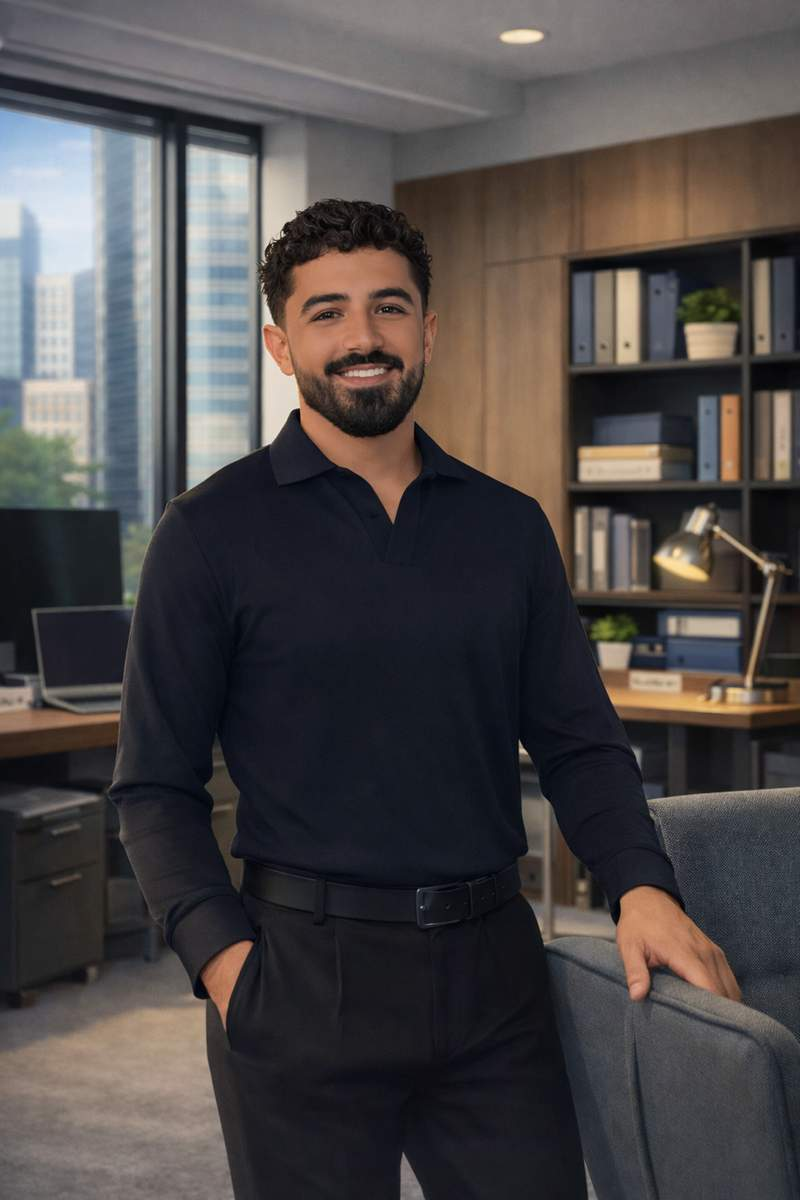
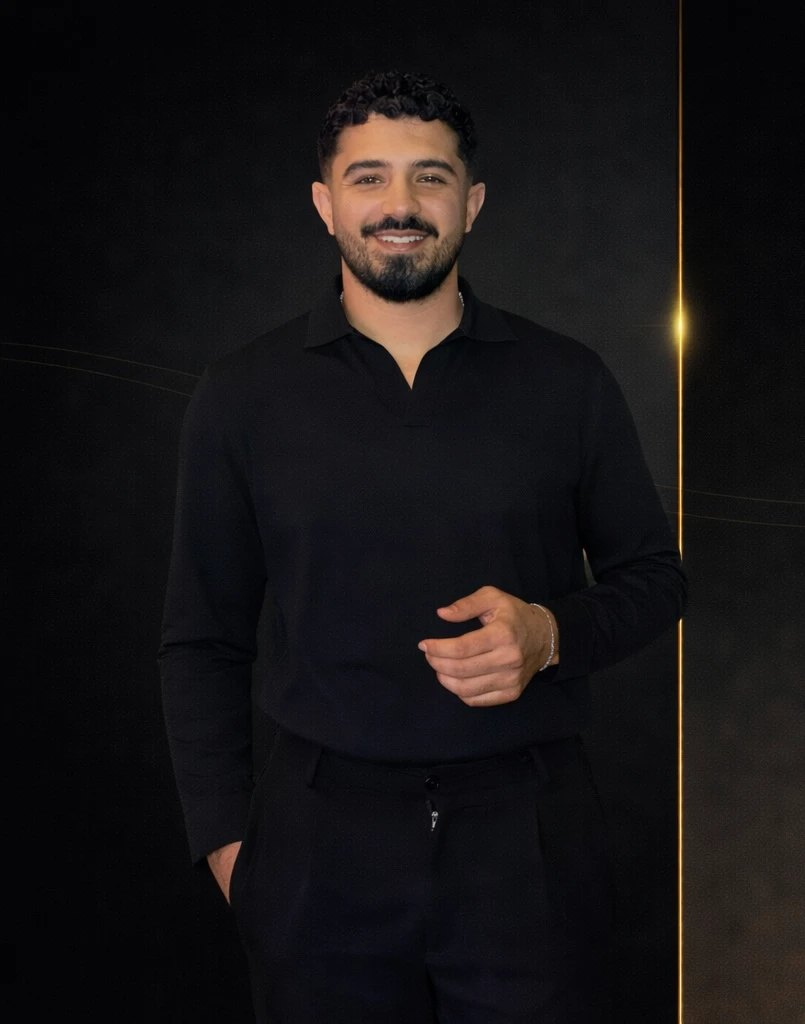
כרטיס ביקור: תמונת פרופיל חדשה + התאמת ה-hero (#3)
- card-photo-1.jpg הוחלף בצילום הסטודיו החדש (805x1024)
- הוסר הלוגו המרחף מה-hero — בתמונה החדשה הראש גבוה יותר
  והלוגו כיסה את הפנים. הוא ממילא חוזר כטקסט מיד מתחת
- filter: brightness .78 -> 1.06 — הערך הישן כויל לתמונת משרד
  מוארת והפך את הצילום הכהה לצללית
- object-position: 15% -> 8% לפי מסגור התמונה החדשה
- שכבת ההצללה מתחילה ב-58% במקום 40%, כדי לא לבלוע את פלג הגוף
- og:image dimensions עודכנו למידות בפועל
- alt של התמונה: "Liam Zur" -> תיאור בעברית
- נמחק download.webp (הקובץ שהועלה; תוכנו עבר ל-card-photo-1.jpg)

Claude-Session: https://claude.ai/code/session_01XFrKUFSQyhkRtQFFAzCPXK

diff --git a/card.html b/card.html
@@ -24,7 +24,7 @@
 <meta name="viewport" content="width=device-width, initial-scale=1.0">
 <title>Liam Zur – Mortgage Advisor</title>
 <link href="https://fonts.googleapis.com/css2?family=Cormorant+Garamond:wght@300;400;600;700&family=Montserrat:wght@300;400;500;600&display=swap" rel="stylesheet">
-<style>:root{--gold:#C9A84C;--gold-light:#E8C97A;--dark:#0A0A0A;--text:#F0EDE6;--text-muted:#9A9185;--wa:#25D366;}*{margin:0;padding:0;box-sizing:border-box;}body{background:var(--dark);min-height:100vh;display:flex;align-items:center;justify-content:center;font-family:'Montserrat',sans-serif;padding:20px;}body::before{content:'';position:fixed;inset:0;background:radial-gradient(ellipse 80% 60% at 20% 0%,rgba(201,168,76,.07) 0%,transparent 60%),radial-gradient(ellipse 60% 50% at 80% 100%,rgba(201,168,76,.05) 0%,transparent 50%);pointer-events:none;}.card{width:100%;max-width:420px;background:linear-gradient(145deg,#161616 0%,#0E0E0E 50%,#141414 100%);border:1px solid rgba(201,168,76,.2);border-radius:24px;overflow:hidden;box-shadow:0 40px 80px rgba(0,0,0,.8),0 0 60px rgba(201,168,76,.04);animation:cardIn .8s cubic-bezier(.16,1,.3,1) both;position:relative;}@keyframes cardIn{from{opacity:0;transform:translateY(30px) scale(.97)}to{opacity:1;transform:translateY(0) scale(1)}}.card::before{content:'';position:absolute;top:0;left:0;right:0;height:1px;background:linear-gradient(90deg,transparent,var(--gold),transparent);z-index:2;}.hero{position:relative;height:360px;overflow:hidden;}.hero-photo{width:100%;height:100%;object-fit:cover;object-position:center 15%;display:block;filter:brightness(.78) contrast(1.05);}.hero-overlay{position:absolute;inset:0;background:linear-gradient( to bottom,transparent 0%,transparent 40%,rgba(10,10,10,.55) 68%,rgba(10,10,10,1) 100% );}.hero-logo{position:absolute;top:16px;left:50%;transform:translateX(-50%);height:52px;opacity:.92;z-index:1;}.body{padding:0 28px 28px;}.name-block{text-align:center;margin-top:-6px;margin-bottom:6px;padding:0 4px;}.name{font-family:'Cormorant Garamond',serif;font-size:clamp(1.9rem,8vw,2.5rem);font-weight:600;color:var(--text);letter-spacing:.08em;line-height:1.1;text-transform:uppercase;white-space:nowrap;}.title{font-size:.65rem;font-weight:600;letter-spacing:.28em;color:var(--gold);text-transform:uppercase;margin-top:6px;}.divider{display:flex;align-items:center;gap:10px;margin:18px 0;}.divider::before,.divider::after{content:'';flex:1;height:1px;background:linear-gradient(90deg,transparent,rgba(201,168,76,.3));}.divider::after{background:linear-gradient(90deg,rgba(201,168,76,.3),transparent);}.bio{font-size:.78rem;color:var(--text-muted);line-height:1.7;text-align:center;margin-bottom:20px;font-weight:300;}.contacts{display:flex;flex-direction:column;gap:10px;margin-bottom:22px;}.contact-item{display:flex;align-items:center;gap:14px;padding:11px 15px;background:rgba(255,255,255,.03);border:1px solid rgba(201,168,76,.1);border-radius:10px;text-decoration:none;transition:all .25s ease;}.contact-item:hover{background:rgba(201,168,76,.07);border-color:rgba(201,168,76,.3);transform:translateX(3px);}.contact-icon{width:34px;height:34px;border-radius:8px;background:rgba(201,168,76,.1);display:flex;align-items:center;justify-content:center;flex-shrink:0;}.contact-icon svg{width:16px;height:16px;fill:none;stroke:var(--gold);stroke-width:1.8;stroke-linecap:round;stroke-linejoin:round;}.contact-label{font-size:.58rem;color:var(--text-muted);text-transform:uppercase;letter-spacing:.2em;margin-bottom:2px;}.contact-value{font-size:.82rem;color:var(--text);font-weight:400;}.actions{display:grid;grid-template-columns:1fr 1fr 1fr;gap:8px;margin-bottom:16px;}.btn{display:flex;align-items:center;justify-content:center;gap:6px;padding:11px 8px;border-radius:10px;font-size:.66rem;font-weight:600;letter-spacing:.08em;text-transform:uppercase;text-decoration:none;cursor:pointer;border:none;transition:all .25s ease;font-family:'Montserrat',sans-serif;}.btn-call{background:linear-gradient(135deg,var(--gold),var(--gold-light));color:#0A0A0A;}.btn-call:hover{transform:translateY(-1px);box-shadow:0 8px 20px rgba(201,168,76,.25);}.btn-wa{background:rgba(37,211,102,.12);border:1px solid rgba(37,211,102,.3);color:var(--wa);}.btn-wa:hover{background:rgba(37,211,102,.2);border-color:rgba(37,211,102,.6);}.btn-site{background:transparent;border:1px solid rgba(201,168,76,.3);color:var(--gold);}.btn-site:hover{background:rgba(201,168,76,.08);border-color:rgba(201,168,76,.6);}.btn svg{width:13px;height:13px;fill:none;stroke:currentColor;stroke-width:2;stroke-linecap:round;stroke-linejoin:round;flex-shrink:0;}.btn-wa svg{stroke:var(--wa);}.save-btn-wrap{display:flex;justify-content:center;margin-bottom:16px;}.save-contact-btn{background:transparent;border:none;color:var(--text-muted);font-size:.65rem;font-family:'Montserrat',sans-serif;letter-spacing:.2em;text-transform:uppercase;cursor:pointer;text-decoration:underline;text-underline-offset:3px;padding:4px;transition:color .2s;}.save-contact-btn:hover{color:var(--gold);}.footer{text-align:center;margin-top:16px;font-size:.6rem;color:rgba(154,145,133,.4);letter-spacing:.15em;}  [data-theme="light"] .logo-link svg text[fill="#F5F0E8"],[data-theme="light"] .nav-logo svg text[fill="#F5F0E8"],[data-theme="light"] .drawer-header svg text[fill="#F5F0E8"],[data-theme="light"] nav svg text[fill="#F5F0E8"],[data-theme="light"] footer svg text[fill="#F5F0E8"]{fill:#1A1814!important}
+<style>:root{--gold:#C9A84C;--gold-light:#E8C97A;--dark:#0A0A0A;--text:#F0EDE6;--text-muted:#9A9185;--wa:#25D366;}*{margin:0;padding:0;box-sizing:border-box;}body{background:var(--dark);min-height:100vh;display:flex;align-items:center;justify-content:center;font-family:'Montserrat',sans-serif;padding:20px;}body::before{content:'';position:fixed;inset:0;background:radial-gradient(ellipse 80% 60% at 20% 0%,rgba(201,168,76,.07) 0%,transparent 60%),radial-gradient(ellipse 60% 50% at 80% 100%,rgba(201,168,76,.05) 0%,transparent 50%);pointer-events:none;}.card{width:100%;max-width:420px;background:linear-gradient(145deg,#161616 0%,#0E0E0E 50%,#141414 100%);border:1px solid rgba(201,168,76,.2);border-radius:24px;overflow:hidden;box-shadow:0 40px 80px rgba(0,0,0,.8),0 0 60px rgba(201,168,76,.04);animation:cardIn .8s cubic-bezier(.16,1,.3,1) both;position:relative;}@keyframes cardIn{from{opacity:0;transform:translateY(30px) scale(.97)}to{opacity:1;transform:translateY(0) scale(1)}}.card::before{content:'';position:absolute;top:0;left:0;right:0;height:1px;background:linear-gradient(90deg,transparent,var(--gold),transparent);z-index:2;}.hero{position:relative;height:360px;overflow:hidden;}.hero-photo{width:100%;height:100%;object-fit:cover;object-position:center 8%;display:block;filter:brightness(1.06) contrast(1.04);}.hero-overlay{position:absolute;inset:0;background:linear-gradient( to bottom,transparent 0%,transparent 58%,rgba(10,10,10,.5) 80%,rgba(10,10,10,1) 100% );}.hero-logo{position:absolute;top:16px;left:50%;transform:translateX(-50%);height:52px;opacity:.92;z-index:1;}.body{padding:0 28px 28px;}.name-block{text-align:center;margin-top:-6px;margin-bottom:6px;padding:0 4px;}.name{font-family:'Cormorant Garamond',serif;font-size:clamp(1.9rem,8vw,2.5rem);font-weight:600;color:var(--text);letter-spacing:.08em;line-height:1.1;text-transform:uppercase;white-space:nowrap;}.title{font-size:.65rem;font-weight:600;letter-spacing:.28em;color:var(--gold);text-transform:uppercase;margin-top:6px;}.divider{display:flex;align-items:center;gap:10px;margin:18px 0;}.divider::before,.divider::after{content:'';flex:1;height:1px;background:linear-gradient(90deg,transparent,rgba(201,168,76,.3));}.divider::after{background:linear-gradient(90deg,rgba(201,168,76,.3),transparent);}.bio{font-size:.78rem;color:var(--text-muted);line-height:1.7;text-align:center;margin-bottom:20px;font-weight:300;}.contacts{display:flex;flex-direction:column;gap:10px;margin-bottom:22px;}.contact-item{display:flex;align-items:center;gap:14px;padding:11px 15px;background:rgba(255,255,255,.03);border:1px solid rgba(201,168,76,.1);border-radius:10px;text-decoration:none;transition:all .25s ease;}.contact-item:hover{background:rgba(201,168,76,.07);border-color:rgba(201,168,76,.3);transform:translateX(3px);}.contact-icon{width:34px;height:34px;border-radius:8px;background:rgba(201,168,76,.1);display:flex;align-items:center;justify-content:center;flex-shrink:0;}.contact-icon svg{width:16px;height:16px;fill:none;stroke:var(--gold);stroke-width:1.8;stroke-linecap:round;stroke-linejoin:round;}.contact-label{font-size:.58rem;color:var(--text-muted);text-transform:uppercase;letter-spacing:.2em;margin-bottom:2px;}.contact-value{font-size:.82rem;color:var(--text);font-weight:400;}.actions{display:grid;grid-template-columns:1fr 1fr 1fr;gap:8px;margin-bottom:16px;}.btn{display:flex;align-items:center;justify-content:center;gap:6px;padding:11px 8px;border-radius:10px;font-size:.66rem;font-weight:600;letter-spacing:.08em;text-transform:uppercase;text-decoration:none;cursor:pointer;border:none;transition:all .25s ease;font-family:'Montserrat',sans-serif;}.btn-call{background:linear-gradient(135deg,var(--gold),var(--gold-light));color:#0A0A0A;}.btn-call:hover{transform:translateY(-1px);box-shadow:0 8px 20px rgba(201,168,76,.25);}.btn-wa{background:rgba(37,211,102,.12);border:1px solid rgba(37,211,102,.3);color:var(--wa);}.btn-wa:hover{background:rgba(37,211,102,.2);border-color:rgba(37,211,102,.6);}.btn-site{background:transparent;border:1px solid rgba(201,168,76,.3);color:var(--gold);}.btn-site:hover{background:rgba(201,168,76,.08);border-color:rgba(201,168,76,.6);}.btn svg{width:13px;height:13px;fill:none;stroke:currentColor;stroke-width:2;stroke-linecap:round;stroke-linejoin:round;flex-shrink:0;}.btn-wa svg{stroke:var(--wa);}.save-btn-wrap{display:flex;justify-content:center;margin-bottom:16px;}.save-contact-btn{background:transparent;border:none;color:var(--text-muted);font-size:.65rem;font-family:'Montserrat',sans-serif;letter-spacing:.2em;text-transform:uppercase;cursor:pointer;text-decoration:underline;text-underline-offset:3px;padding:4px;transition:color .2s;}.save-contact-btn:hover{color:var(--gold);}.footer{text-align:center;margin-top:16px;font-size:.6rem;color:rgba(154,145,133,.4);letter-spacing:.15em;}  [data-theme="light"] .logo-link svg text[fill="#F5F0E8"],[data-theme="light"] .nav-logo svg text[fill="#F5F0E8"],[data-theme="light"] .drawer-header svg text[fill="#F5F0E8"],[data-theme="light"] nav svg text[fill="#F5F0E8"],[data-theme="light"] footer svg text[fill="#F5F0E8"]{fill:#1A1814!important}
 
   /* Canonical hamburger + mobile drawer */
   .hamburger{display:none;flex-direction:column;gap:5px;cursor:pointer;padding:6px;background:none;border:none;z-index:1300;position:relative;}
@@ -96,8 +96,8 @@
 <meta property="og:title" content="Liam Zur – Mortgage Advisor">
 <meta property="og:description" content="Liam Zur – Mortgage Advisor — מאמר מקצועי באתר של ליאם צור, יועץ משכנתאות מורשה.">
 <meta property="og:image" content="https://liamzur.co.il/card-photo-1.jpg">
-<meta property="og:image:width" content="800">
-<meta property="og:image:height" content="1200">
+<meta property="og:image:width" content="805">
+<meta property="og:image:height" content="1024">
 <meta property="og:image:alt" content="ליאם צור — יועץ משכנתאות מורשה">
 <meta property="og:url" content="https://liamzur.co.il/card.html">
 <meta property="og:type" content="website">
@@ -149,9 +149,8 @@
 
 <div class="card">
   <div class="hero">
-    <img class="hero-photo" src="card-photo-1.jpg" alt="Liam Zur">
+    <img class="hero-photo" src="card-photo-1.jpg" alt="ליאם צור — יועץ משכנתאות מורשה">
     <div class="hero-overlay"></div>
-    <img class="hero-logo" src="card-photo-2.jpg" alt="Logo">
   </div>
   <div class="body">
     <div class="name-block">

diff --git a/CLAUDE.md b/CLAUDE.md
@@ -18,8 +18,8 @@ Netlify Site ID: **c96420f6-9fc5-43d8-9e79-99ea1bbc9051**
 mortgage-site/
 ├── index.html          # דף הבית (302KB) - hero, services, FAQ, blog section
 ├── card.html           # כרטיס ביקור דיגיטלי (10KB - אופטימז!)
-├── card-photo-1.jpg    # תמונת פרופיל (58KB)
-├── card-photo-2.jpg    # תמונת QR (13KB)
+├── card-photo-1.jpg    # תמונת הפרופיל ב-hero (805x1024, 65KB) — רקע סטודיו שחור
+├── card-photo-2.jpg    # לוגו LIAM ZUR (13KB) — לא בשימוש בכרטיס כרגע
 ├── sitemap.xml         # 14 עמודים
 ├── accessibility.html
 ├── privacy.html
